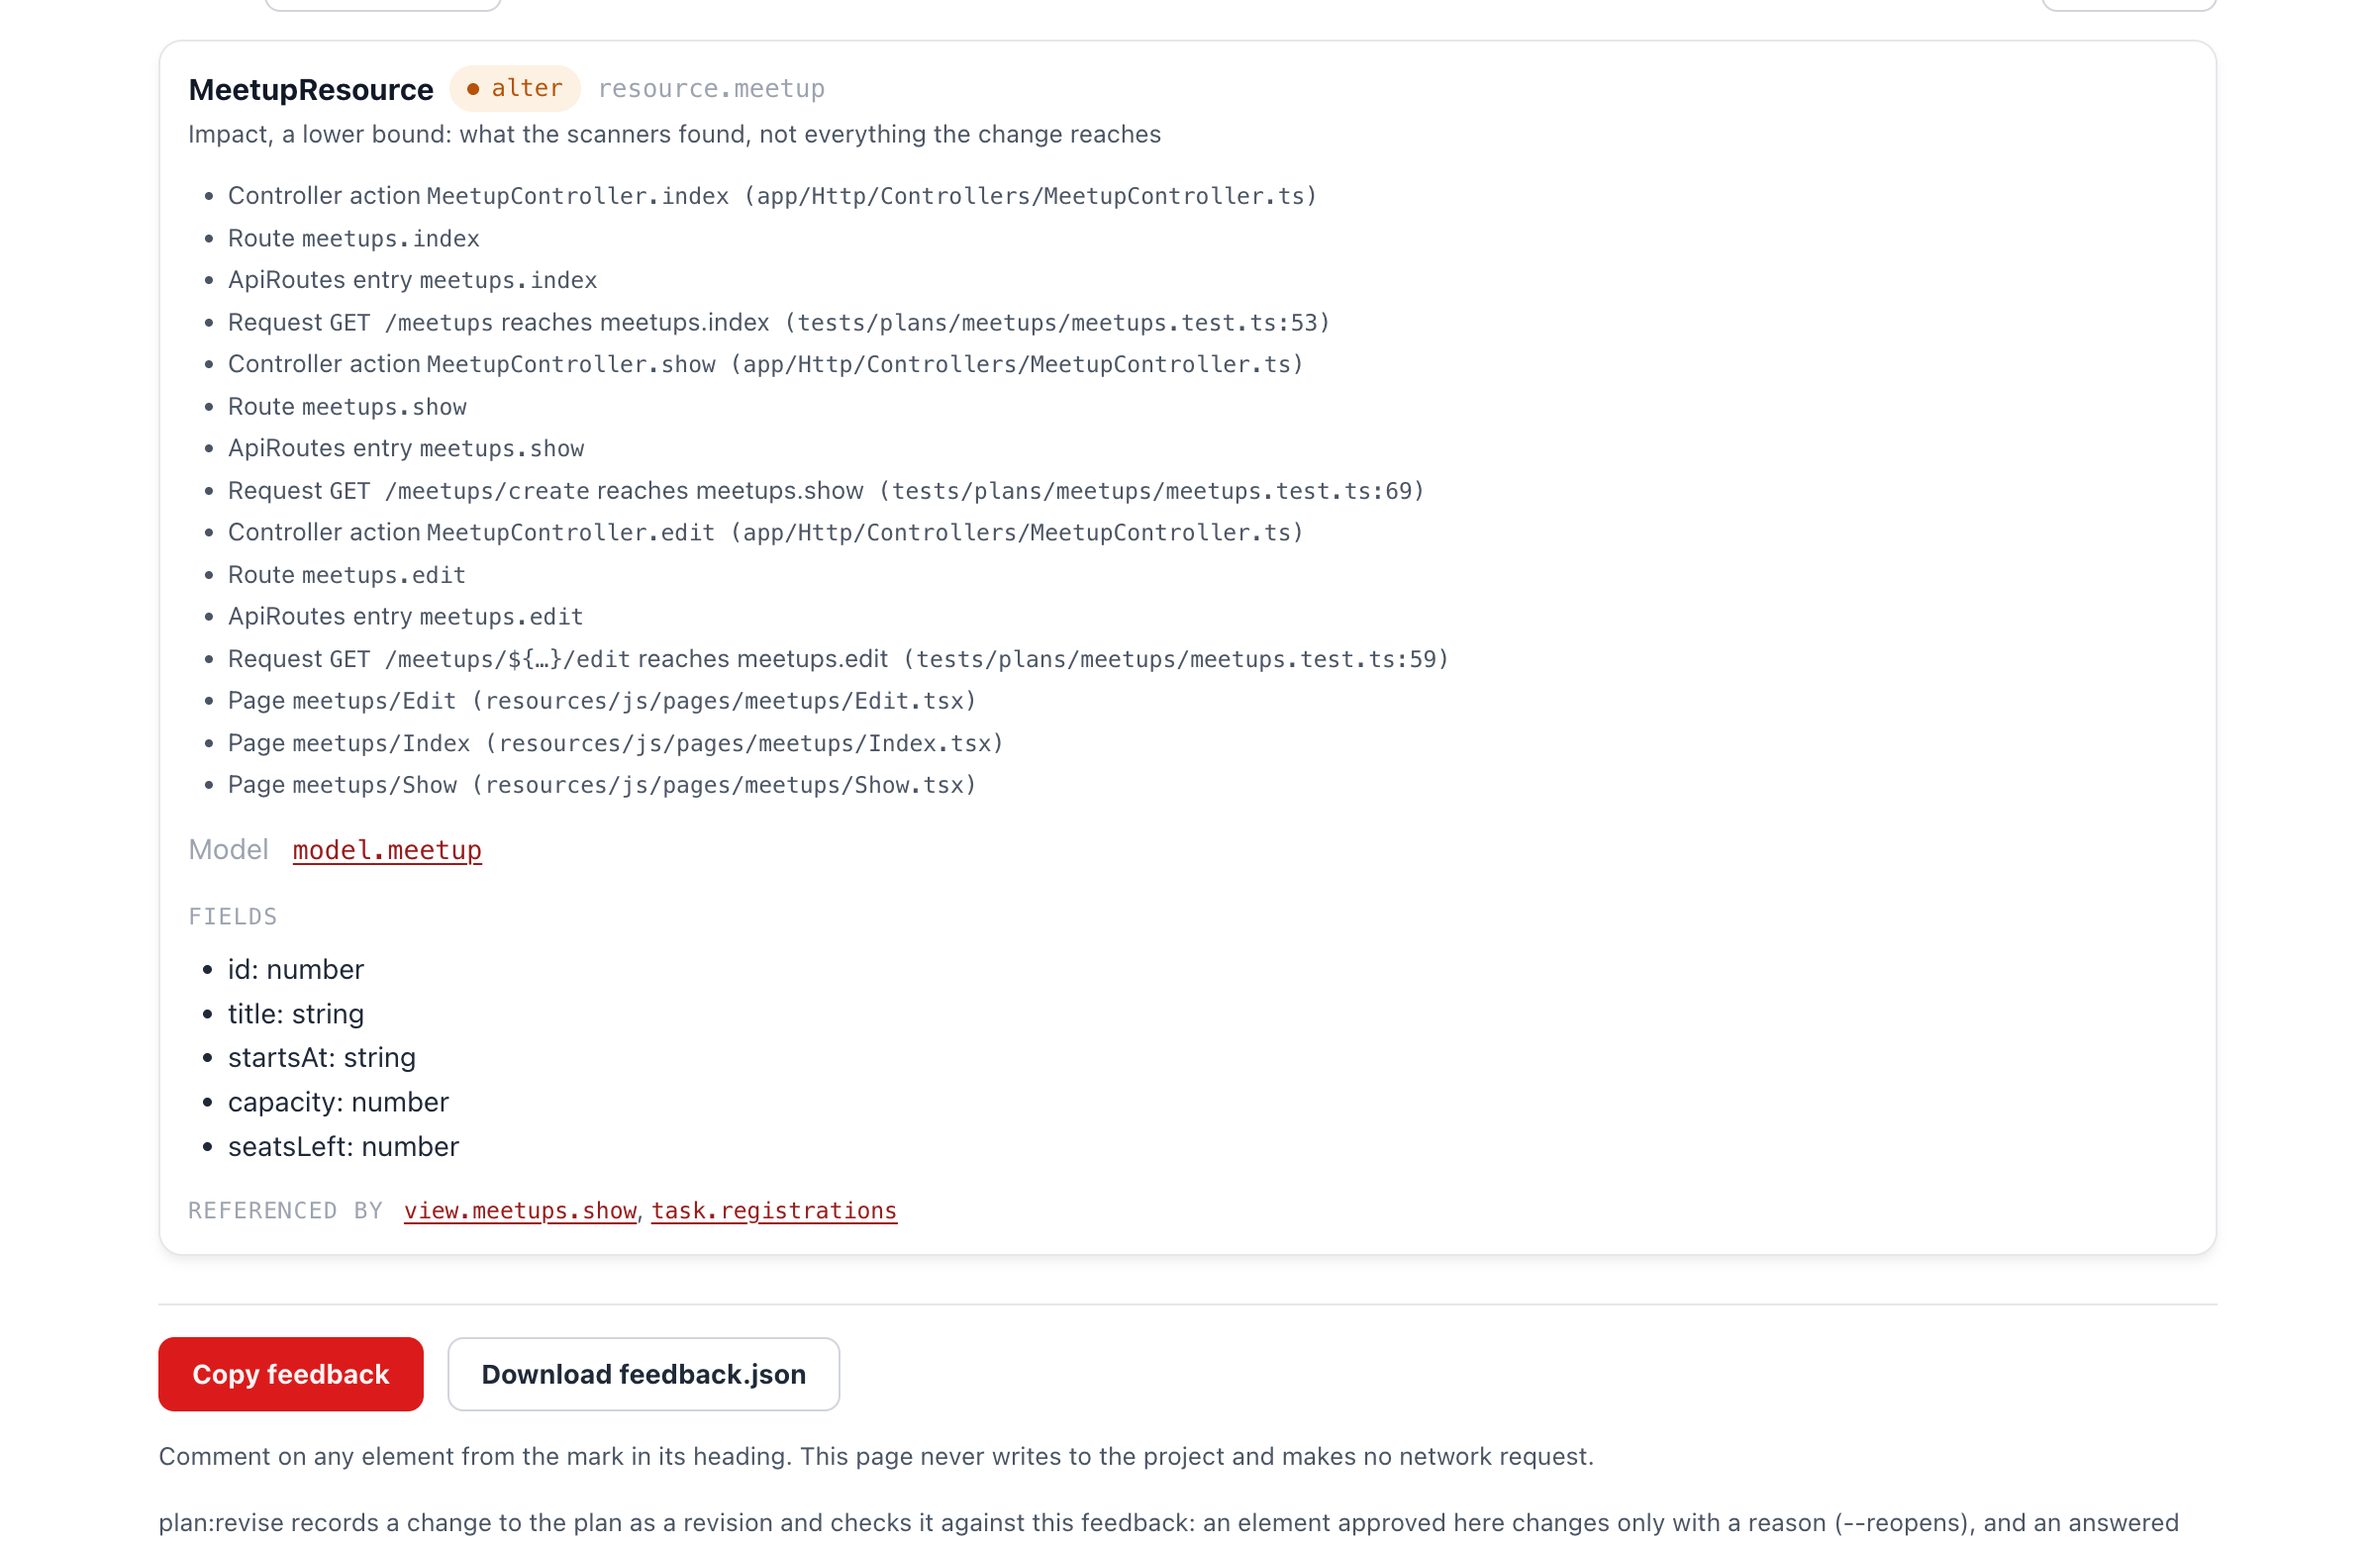
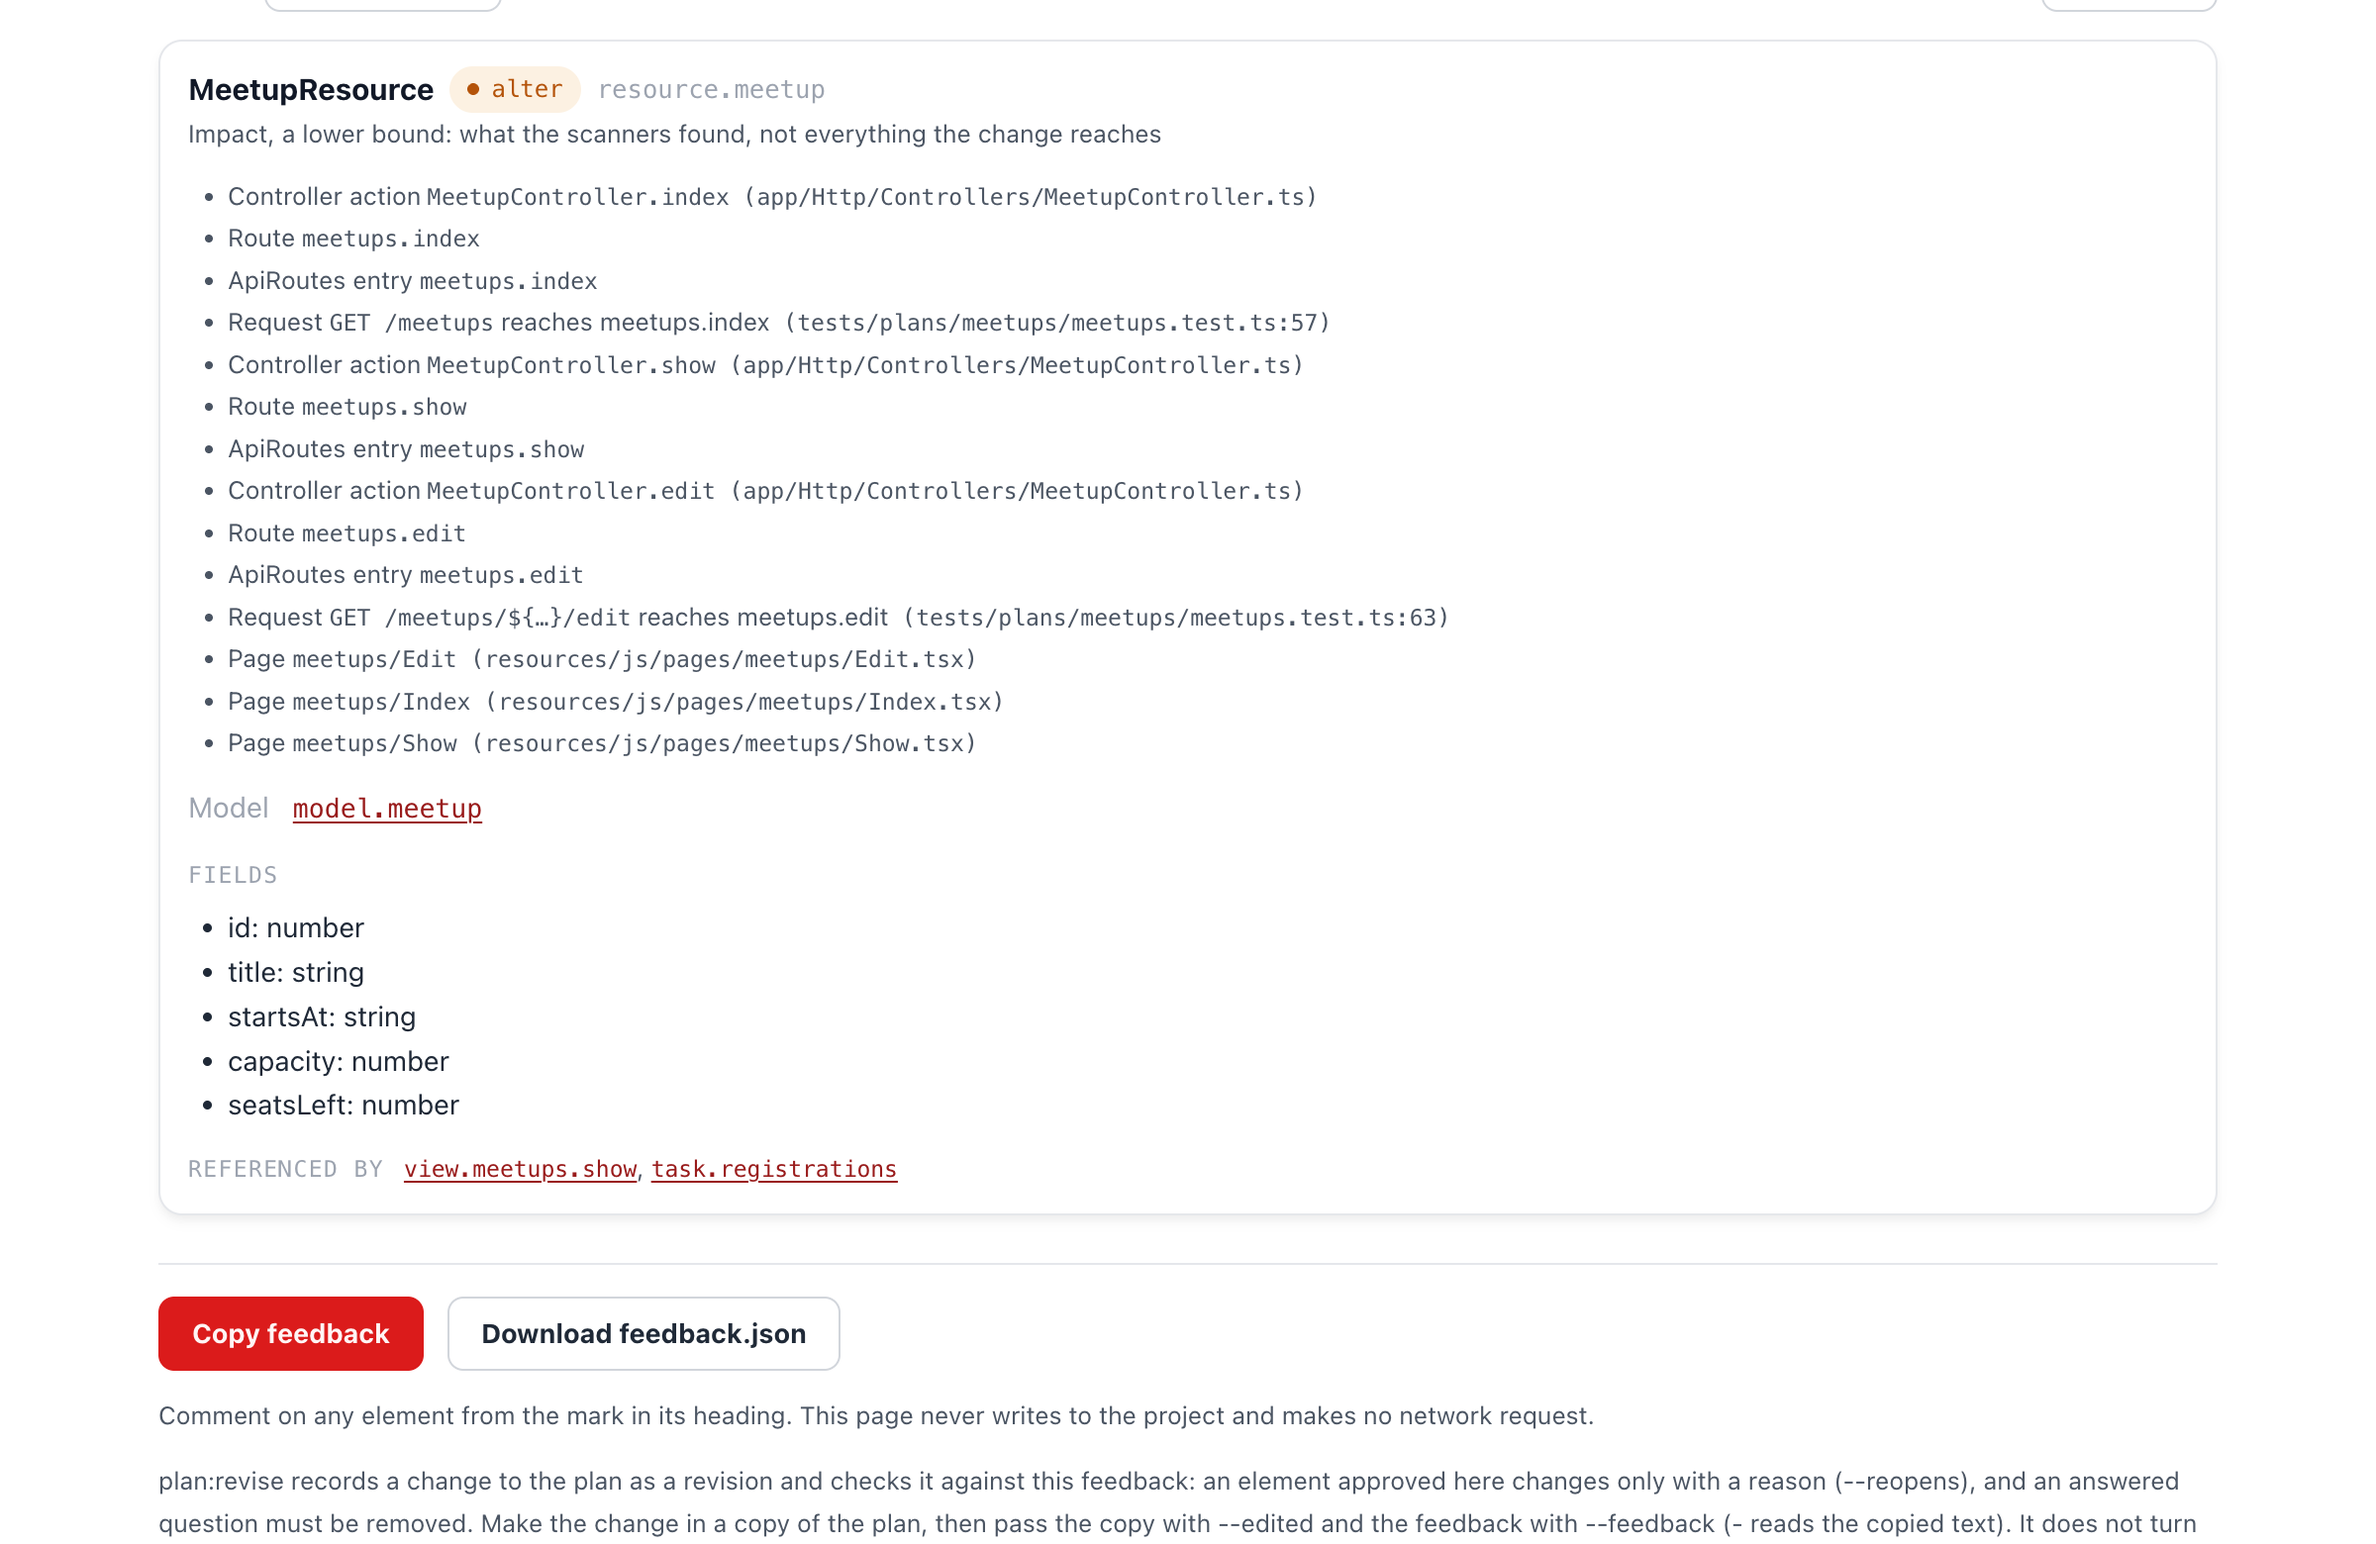
docs: recapture the Impact screenshot after #1103
Impact no longer attributes GET /meetups/create to meetups.show, so the
chapter 6 screenshot and its alt text show only the requests that reach
index and edit.

diff --git a/docs/ja/agent-course/06-changing-what-exists.md b/docs/ja/agent-course/06-changing-what-exists.md
@@ -343,7 +343,7 @@ bunx guren plan:render docs/plans/registrations/plan.json
 
 `alter` のカードにはどれも **Impact** の一覧があります。その要素に依存しているとスキャナが見つけたコードです。
 
-![レビューページの MeetupResource のカード。alter の印があります。Impact の一覧には MeetupController の index、show、edit のアクション、それぞれのルートと ApiRoutes のエントリ、そこに届くテストのリクエスト、meetups/Edit、Index、Show のページが並びます。その下の計画されたフィールドは seatsLeft: number で終わります](../../images/agent-course-impact.png)
+![レビューページの MeetupResource のカード。alter の印があります。Impact の一覧には MeetupController の index、show、edit のアクション、それぞれのルートと ApiRoutes のエントリ、index と edit に届くテストのリクエスト、meetups/Edit、Index、Show のページが並びます。その下の計画されたフィールドは seatsLeft: number で終わります](../../images/agent-course-impact.png)
 
 これは問いとして読みます。**計画はこの 1 つずつに対応しているか。** ここでは `MeetupResource` に `seatsLeft` が増え、その Resource を `index`、`show`、`edit` が使います。3 つとも Resource に登録数を渡さないと、一覧ページと編集ページで `seatsLeft` が壊れます。計画が変えるのは `show` だけです。残りの 2 つは、http ステップでエージェントが気づくべきもので、そのコミットで自分が確かめるものです。
 

diff --git a/docs/en/agent-course/06-changing-what-exists.md b/docs/en/agent-course/06-changing-what-exists.md
@@ -343,7 +343,7 @@ An `alter` says what changes in properties Guren can read back from the code: `M
 
 Every `alter` card has an **Impact** list: the code the scanners found depending on that element.
 
-![The MeetupResource card on the review page, marked alter. Its Impact list names the index, show and edit actions of MeetupController, their routes and ApiRoutes entries, the test requests reaching them, and the meetups/Edit, Index and Show pages. Below it, the planned fields end with seatsLeft: number](../../images/agent-course-impact.png)
+![The MeetupResource card on the review page, marked alter. Its Impact list names the index, show and edit actions of MeetupController, their routes and ApiRoutes entries, the test requests reaching index and edit, and the meetups/Edit, Index and Show pages. Below it, the planned fields end with seatsLeft: number](../../images/agent-course-impact.png)
 
 Read it as a question: **does the plan account for each of these?** Here, `MeetupResource` gains `seatsLeft`, and the resource is used by `index`, `show` and `edit`. Each of them has to give the resource a registration count, or `seatsLeft` breaks on the list and edit pages. The plan changes only `show`; the other two are the agent's to notice in the http step, and yours to check in its commit.
 
